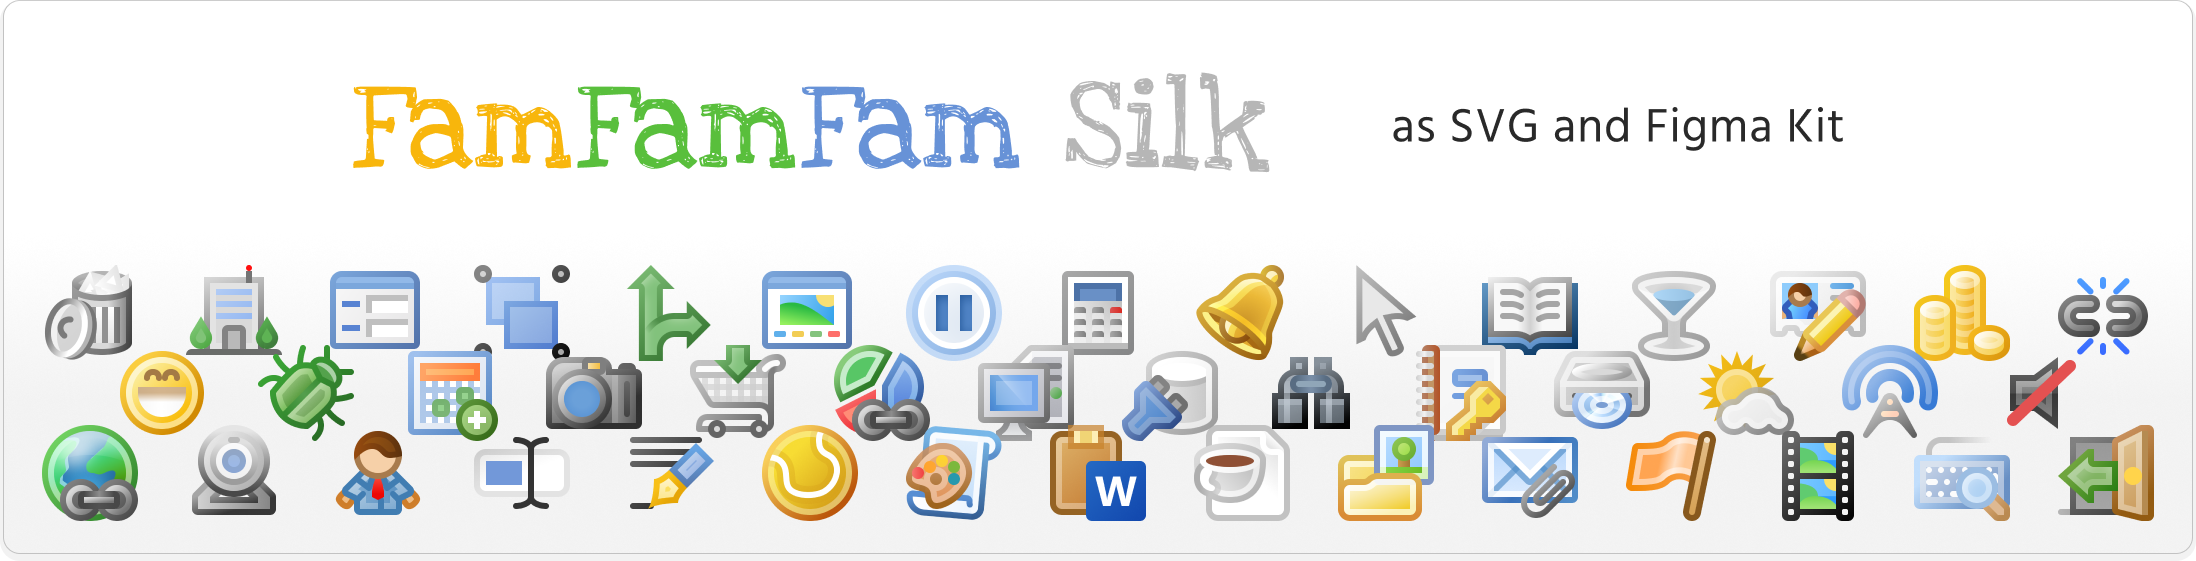
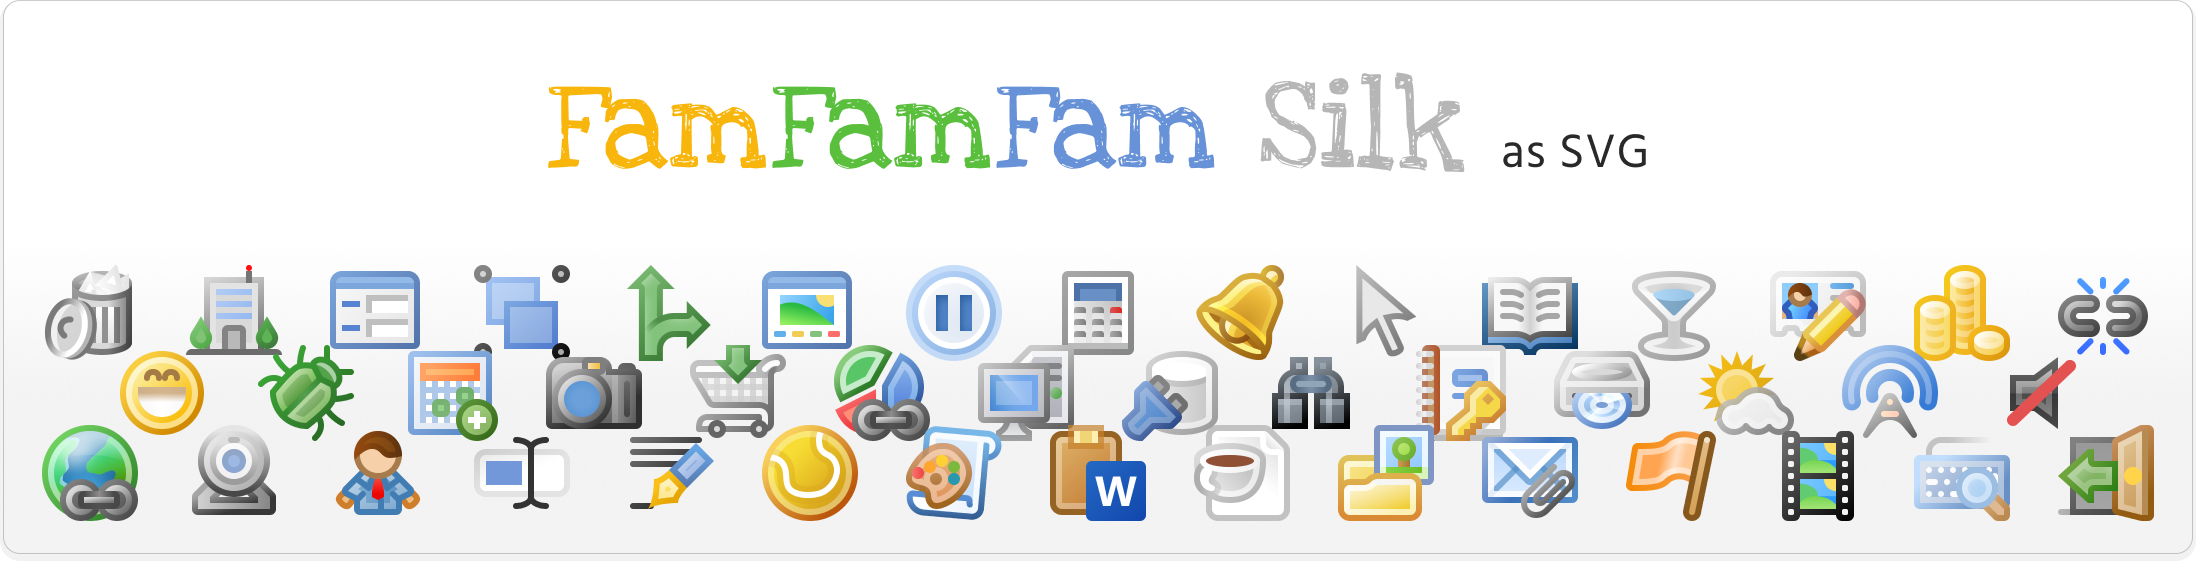
fix: Remove references to the Figma UI Kit.
The Figma Kit will be linked back here when it will be published on the Community.

Changed region(s): [[0.1548, 0.1212, 0.8361, 0.303]]

diff --git a/README.md b/README.md
@@ -1,14 +1,15 @@
 <img align="center" src="./public/github-cover.png">
 
-# FamFamFam Silk as SVG & Figma Kit
-> The iconic iconset of the 2010’s era from Mark James, remade in SVG and Figma kit for today’s needs.
+# FamFamFam Silk as SVG
+> The iconic iconset of the 2010’s era from Mark James, remade in SVG for today’s needs.
 
-## 🚀 Getting started
+## 🚀 How to use
 
 This work contains ~1000 icons in SVG, feel free to:
 
 * Clone or fork the repository.
 * Download files from the [icons](./icons/) folder.
+* (A Figma UI KIT will be released to the community later.)
 
 ![All available icons](./public/available-icons.png)
 
